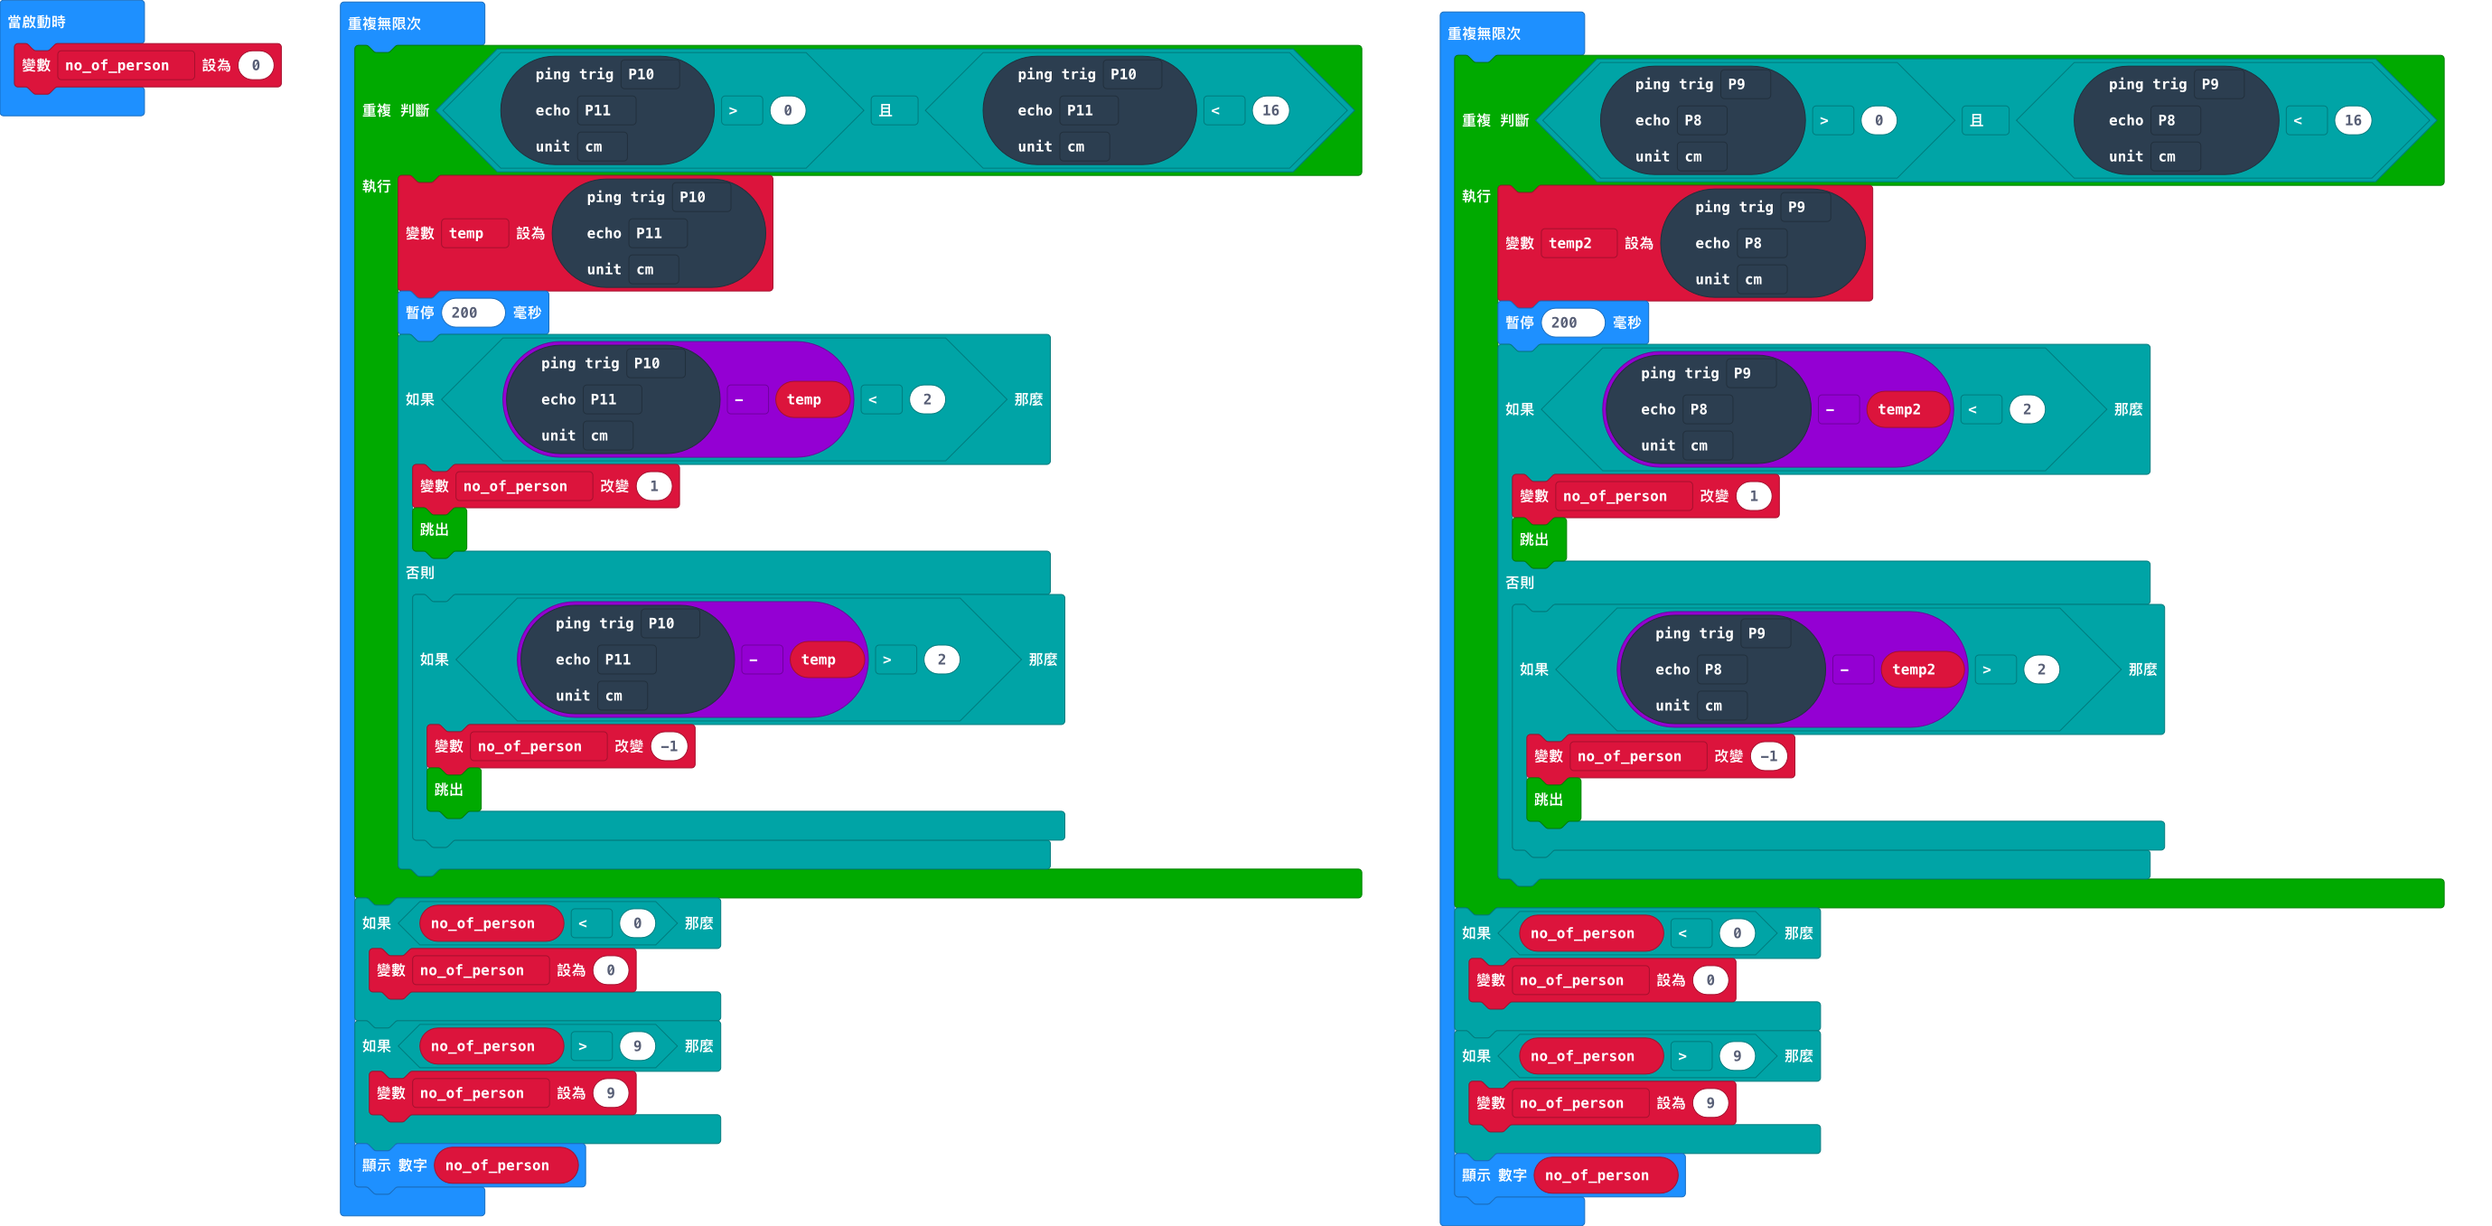
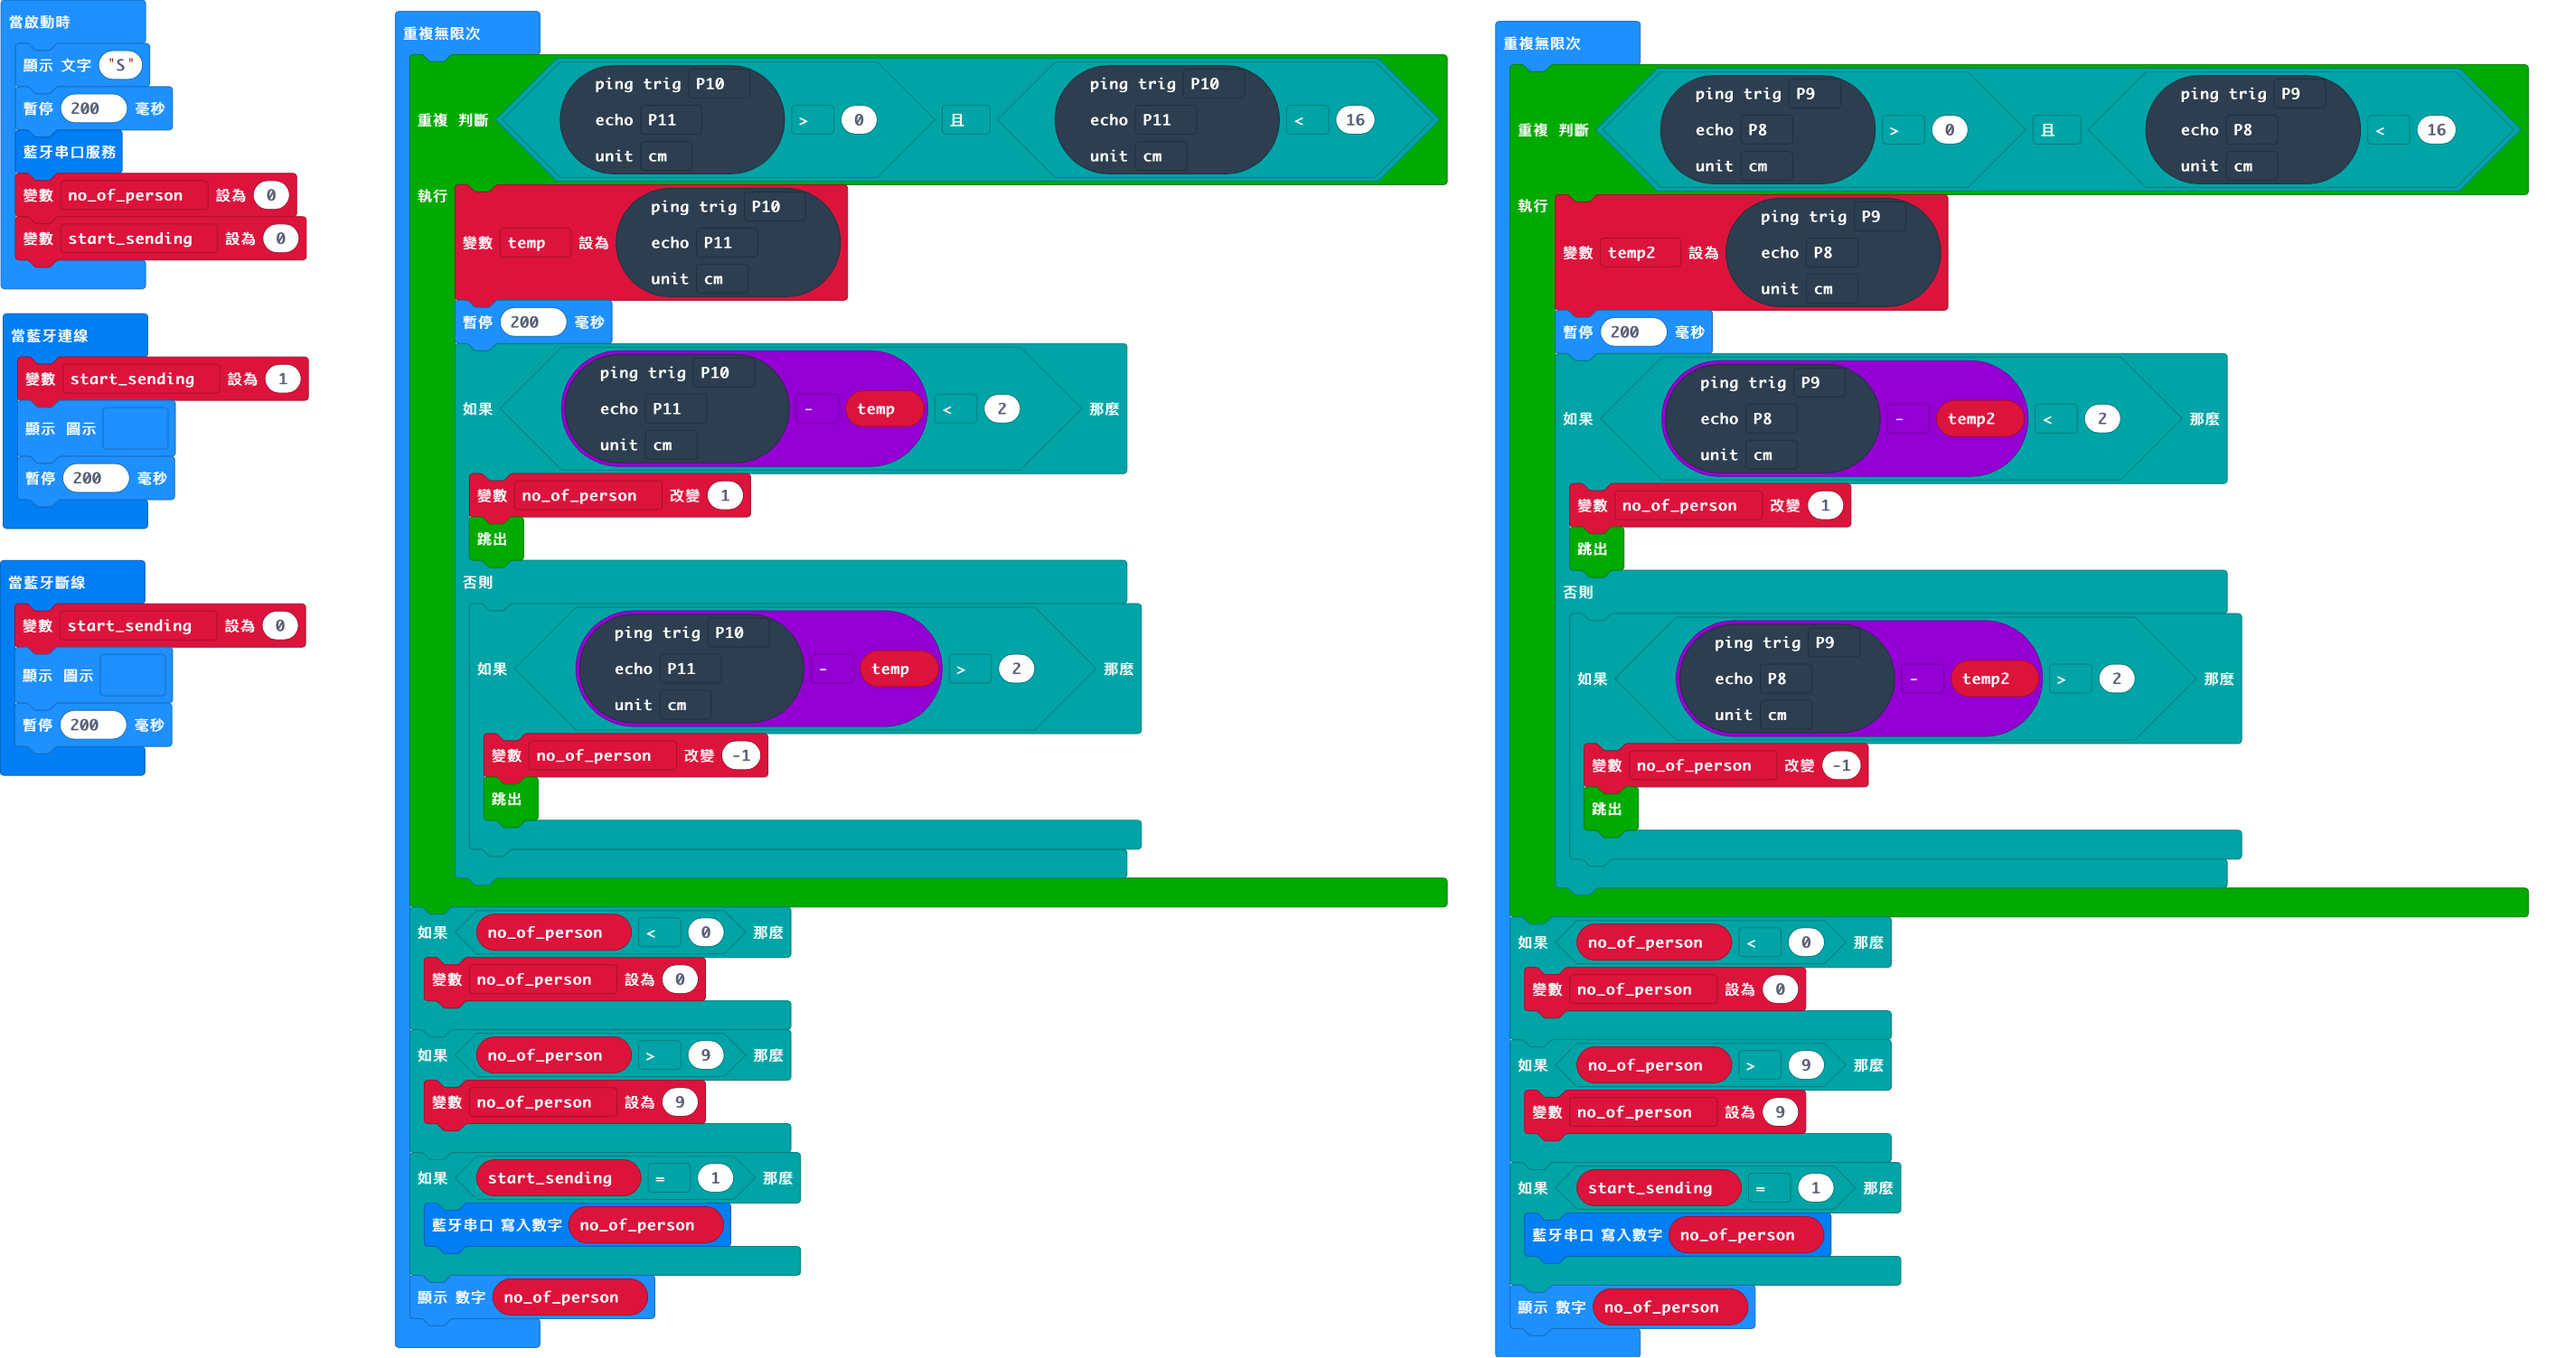
Update pxt.json, main.blocks, main.ts

diff --git a/main.ts b/main.ts
@@ -1,6 +1,21 @@
+bluetooth.onBluetoothConnected(function () {
+    start_sending = 1
+    basic.showIcon(IconNames.Yes)
+    basic.pause(200)
+})
+bluetooth.onBluetoothDisconnected(function () {
+    start_sending = 0
+    basic.showIcon(IconNames.No)
+    basic.pause(200)
+})
 let temp2 = 0
 let temp = 0
+let start_sending = 0
+basic.showString("S")
+basic.pause(200)
+bluetooth.startUartService()
 let no_of_person = 0
+start_sending = 0
 basic.forever(function () {
     while (sonar.ping(
     DigitalPin.P10,
@@ -40,6 +55,9 @@ basic.forever(function () {
     }
     if (no_of_person > 9) {
         no_of_person = 9
+    }
+    if (start_sending == 1) {
+        bluetooth.uartWriteNumber(no_of_person)
     }
     basic.showNumber(no_of_person)
 })
@@ -82,6 +100,9 @@ basic.forever(function () {
     }
     if (no_of_person > 9) {
         no_of_person = 9
+    }
+    if (start_sending == 1) {
+        bluetooth.uartWriteNumber(no_of_person)
     }
     basic.showNumber(no_of_person)
 })
